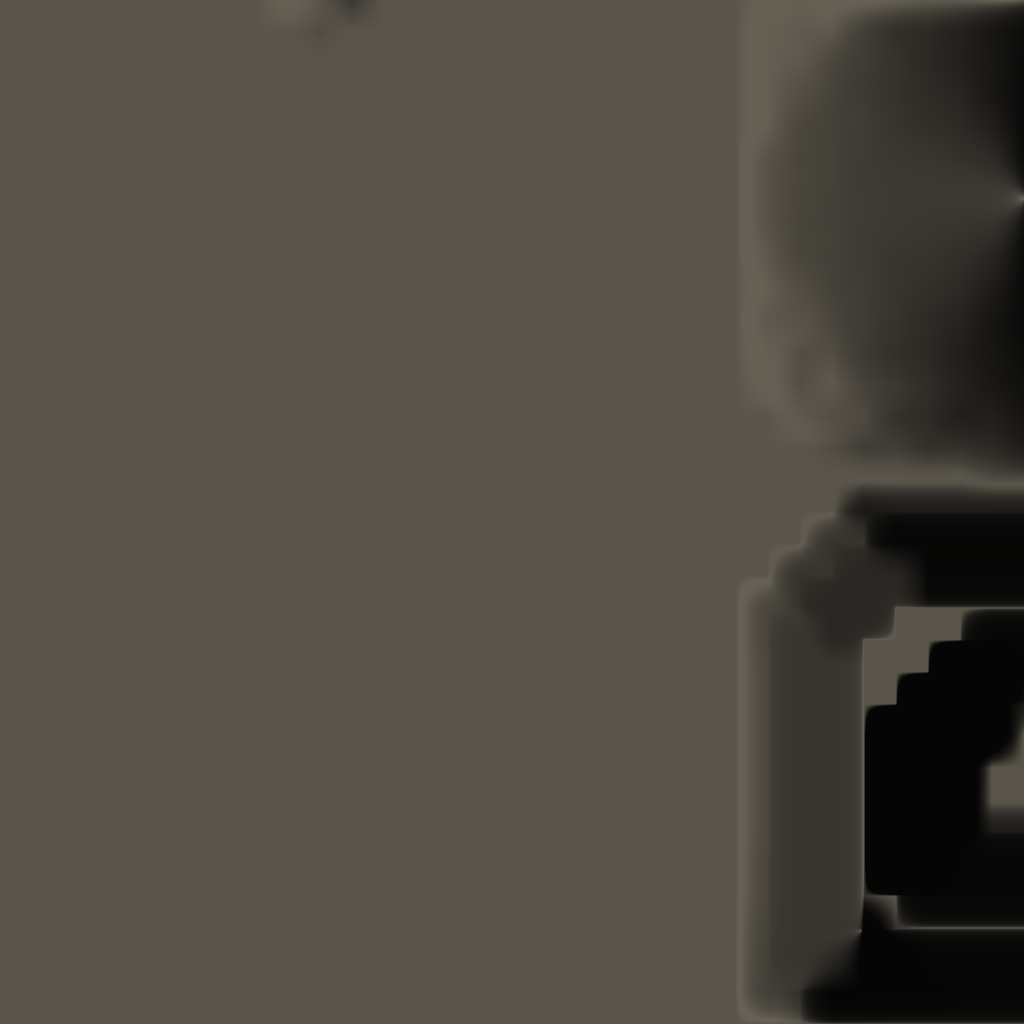
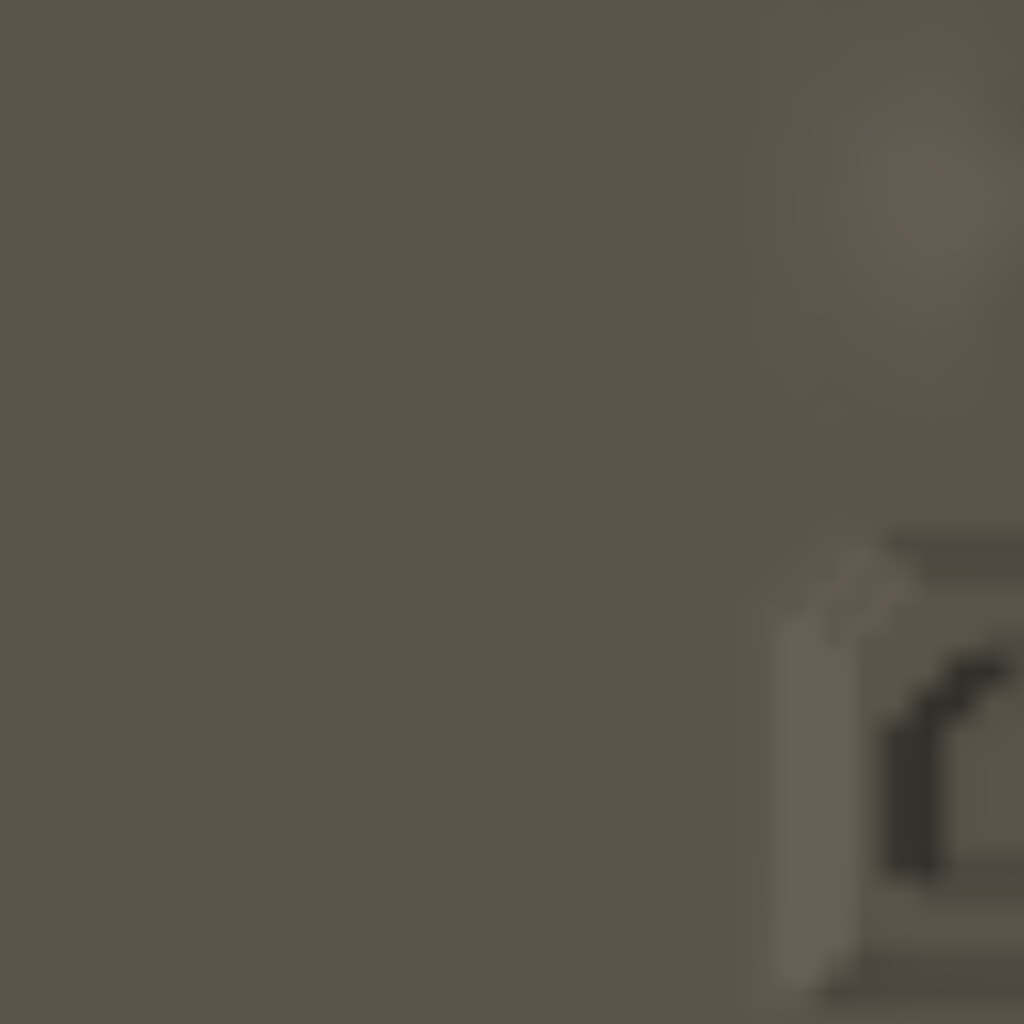
Merged revisions 30442,30454-30457 via svnmerge from https://crystal.svn.sourceforge.net/svnroot/crystal/CS/trunk
........
  r30442 | res2002 | 2008-07-18 18:23:10 +0200 (Fri, 18 Jul 2008) | 1 line
  
  Add self-locking to Lightmap::IsOneColor()
........
  r30454 | res2002 | 2008-07-19 02:18:02 +0200 (Sat, 19 Jul 2008) | 1 line
  
  Un-inlined scfString constructors to avoid cross-module memory allocs+frees
........
  r30455 | res2002 | 2008-07-19 02:19:40 +0200 (Sat, 19 Jul 2008) | 1 line
  
  Fix crash in terrain2 saver when the default cell has no base material
........
  r30456 | res2002 | 2008-07-19 02:35:11 +0200 (Sat, 19 Jul 2008) | 1 line
  
  Fixed terrain2 normal computation
........
  r30457 | res2002 | 2008-07-19 02:39:52 +0200 (Sat, 19 Jul 2008) | 1 line
  
  Relit terraini once more
........

git-svn-id: http://crystal.svn.sourceforge.net/svnroot/crystal/CS/branches/release/V1.4@30458 8cc4aa7f-3514-0410-904f-f2cc9021211c

Changed region(s): [[0.7188, 0.0, 1.0, 1.0]]

diff --git a/plugins/mesh/terrain/persist/terrain2/saver.cpp b/plugins/mesh/terrain/persist/terrain2/saver.cpp
@@ -278,11 +278,15 @@ CS_PLUGIN_NAMESPACE_BEGIN(Terrain2Loader)
 	}
 
 	{
-	  csRef<iDocumentNode> node = 
-	    defaultNode->CreateNodeBefore(CS_NODE_ELEMENT, 0);
-	  node->SetValue ("basematerial");
-	  node->CreateNodeBefore (CS_NODE_TEXT, 0)
-	    ->SetValue (defaultCell->GetBaseMaterial()->QueryObject()->GetName());
+	  iMaterialWrapper* basemat = defaultCell->GetBaseMaterial();
+	  if (basemat)
+	  {
+	    csRef<iDocumentNode> node = 
+	      defaultNode->CreateNodeBefore(CS_NODE_ELEMENT, 0);
+	    node->SetValue ("basematerial");
+	    node->CreateNodeBefore (CS_NODE_TEXT, 0)
+	     ->SetValue (basemat->QueryObject()->GetName());
+	  }
 	}
 
 	synldr->WriteBool (defaultNode, "materialmappersistent",
@@ -381,13 +385,14 @@ CS_PLUGIN_NAMESPACE_BEGIN(Terrain2Loader)
 	  synldr->WriteVector (node, cell->GetSize());
 	}
 
-	if (defaultCell->GetBaseMaterial() != cell->GetBaseMaterial())
+	if ((cell->GetBaseMaterial() != 0)
+	    && (defaultCell->GetBaseMaterial() != cell->GetBaseMaterial()))
 	{
 	  csRef<iDocumentNode> node = 
 	    cellNode->CreateNodeBefore(CS_NODE_ELEMENT, 0);
 	  node->SetValue ("basematerial");
 	  node->CreateNodeBefore (CS_NODE_TEXT, 0)
-	    ->SetValue (defaultCell->GetBaseMaterial()->QueryObject()->GetName());
+	    ->SetValue (cell->GetBaseMaterial()->QueryObject()->GetName());
 	}
 
 	synldr->WriteBool (cellNode, "materialmappersistent",

diff --git a/include/csutil/scfstr.h b/include/csutil/scfstr.h
@@ -39,28 +39,19 @@ class CS_CRYSTALSPACE_EXPORT scfString :
 public:
 
   /// Create an empty scfString object
-  scfString ()
-    : scfImplementationType (this)
-  { }
+  scfString ();
 
   /// Create an scfString object and reserve space for iLength characters
-  scfString (size_t iLength) 
-    : scfImplementationType (this), s(iLength)
-  { }
+  scfString (size_t iLength);
 
   /// Copy constructor
-  scfString (const iString &copy) 
-    : iBase(), scfImplementationType (this), s(copy.GetData())
-  { }
+  scfString (const iString &copy);
 
   /// Yet another copy constructor
-  scfString (const char *copy) 
-    : scfImplementationType (this), s(copy)
-  { }
+  scfString (const char *copy);
 
   /// Destroy a scfString object
-  virtual ~scfString ()
-  { }
+  virtual ~scfString ();
 
   /// Get the pointer to the internal csString.
   const csString& GetCsString () const { return s; }

diff --git a/plugins/mesh/terrain/terrain2/cell.cpp b/plugins/mesh/terrain/terrain2/cell.cpp
@@ -537,7 +537,7 @@ csVector3 csTerrainCell::GetNormalDN (int x, int y) const
 
   float dfdy = 0;
   if (y - 1 >= 0 && y + 1 < gridHeight)
-    dfdy = (GetHeight (x, y + 1) - GetHeight (x, y - 1)) / 2*step_z; 
+    dfdy = (GetHeight (x, y + 1) - GetHeight (x, y - 1)) / (2*step_z); 
   else if (y - 1 >= 0)
     dfdy = (center - GetHeight (x, y - 1)) / step_z;
   else if (y + 1 < gridHeight)
@@ -545,7 +545,7 @@ csVector3 csTerrainCell::GetNormalDN (int x, int y) const
 
   float dfdx = 0;
   if (x - 1 >= 0 && x + 1 < gridWidth)
-    dfdx = (GetHeight (x + 1, y) - GetHeight (x - 1, y)) / 2*step_x; 
+    dfdx = (GetHeight (x + 1, y) - GetHeight (x - 1, y)) / (2*step_x); 
   else if (x - 1 >= 0)
     dfdx = (center - GetHeight (x - 1, y)) / step_x;
   else if (x + 1 < gridWidth)

diff --git a/libs/csutil/scfstr.cpp b/libs/csutil/scfstr.cpp
@@ -21,6 +21,25 @@
 #include "csutil/ref.h"
 #include "csutil/scfstr.h"
 
+scfString::scfString ()
+  : scfImplementationType (this)
+{ }
+
+scfString::scfString (size_t iLength) 
+  : scfImplementationType (this), s(iLength)
+{ }
+
+scfString::scfString (const iString &copy) 
+  : iBase(), scfImplementationType (this), s(copy.GetData())
+{ }
+
+scfString::scfString (const char *copy) 
+  : scfImplementationType (this), s(copy)
+{ }
+
+scfString::~scfString ()
+{ }
+
 void scfString::SetCapacity (size_t NewSize)
 { s.SetCapacity (NewSize); }
 

diff --git a/plugins/mesh/terrain/terrain2/bruteblockrenderer.cpp b/plugins/mesh/terrain/terrain2/bruteblockrenderer.cpp
@@ -508,7 +508,7 @@ void TerrainBlock::SetupGeometry ()
         
         //@@Optimize this!
         *normalData++ = renderData->cell->GetNormal (
-          (int)(x*stepSize), (int)(y*stepSize)).Unit ();
+          (int)(x*stepSize), (int)(y*stepSize));
 
         if (height < minHeight)
           minHeight = height;

diff --git a/apps/tools/lighter2/lightmap.cpp b/apps/tools/lighter2/lightmap.cpp
@@ -222,6 +222,8 @@ namespace lighter
 
   bool Lightmap::IsOneColor (float threshold, csColor& color)
   {
+    ScopedSwapLock<Lightmap> l (*this);
+
     if ((width == 1) && (height == 1))
     {
       color = colorArray[0];
